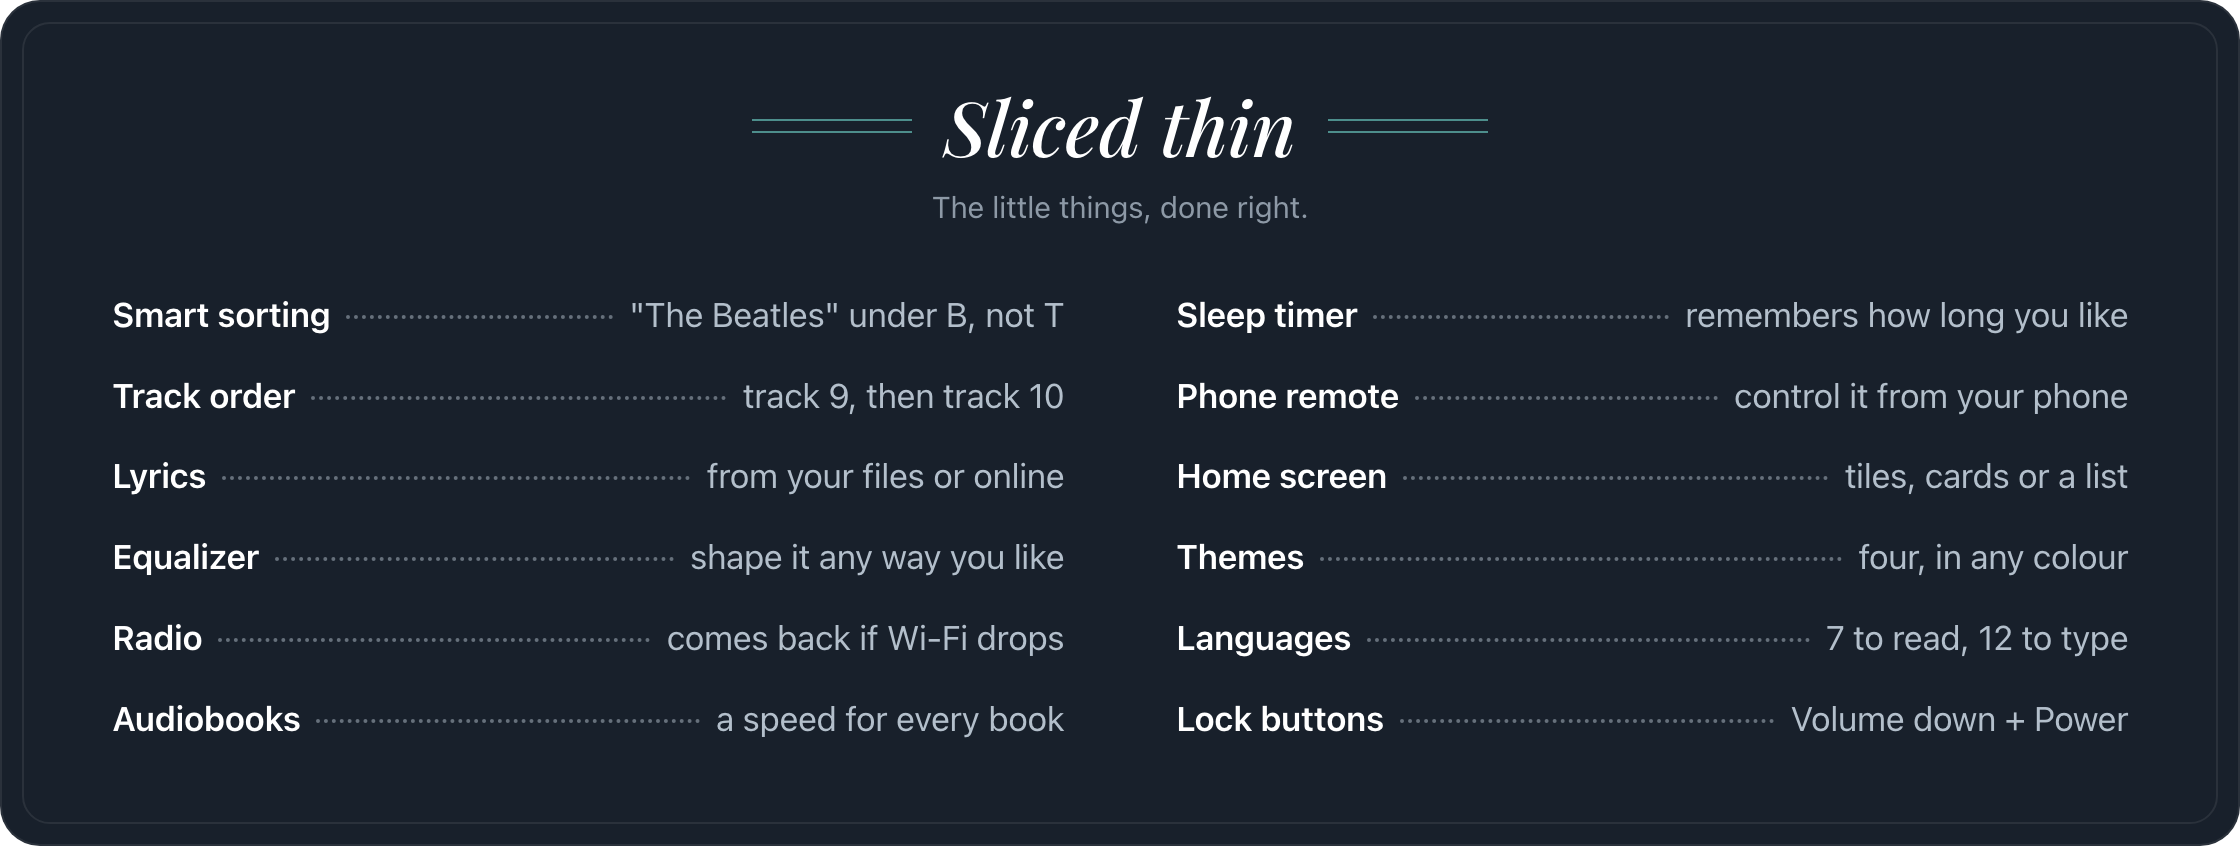
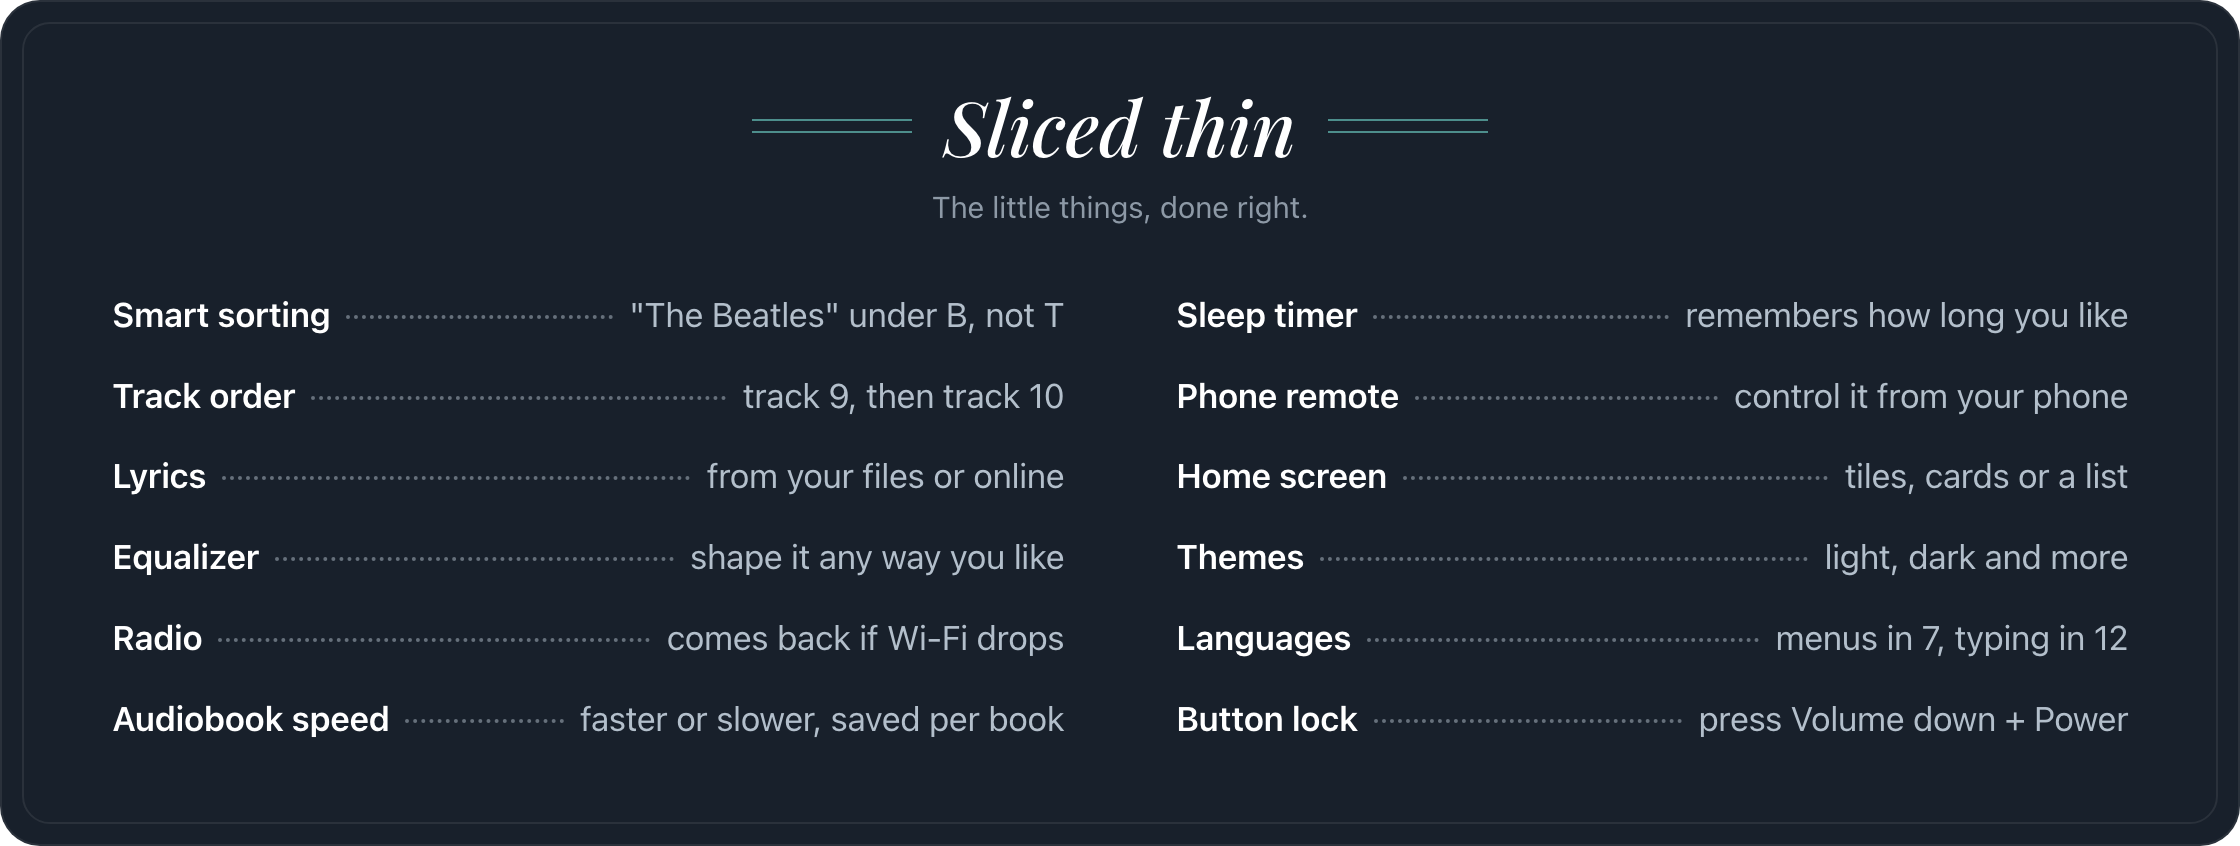
Menu board: audiobook speed and the rest in plain words

diff --git a/README.md b/README.md
@@ -28,7 +28,7 @@ Everything you'd want from a music player, and it's quick.
 
 <picture>
   <source media="(prefers-color-scheme: dark)" srcset="assets/menu-dark.png">
-  <img src="assets/menu-light.png" width="880" alt="Sliced thin: the little things, done right. Smart sorting: "The Beatles" under B, not T. Track order: track 9, then track 10. Lyrics: from your files or online. Equalizer: shape it any way you like. Radio: comes back if Wi-Fi drops. Audiobooks: a speed for every book. Sleep timer: remembers how long you like. Phone remote: control it from your phone. Home screen: tiles, cards or a list. Themes: four, in any colour. Languages: 7 to read, 12 to type. Lock buttons: Volume down + Power.">
+  <img src="assets/menu-light.png" width="880" alt="Sliced thin: the little things, done right. Smart sorting: "The Beatles" under B, not T. Track order: track 9, then track 10. Lyrics: from your files or online. Equalizer: shape it any way you like. Radio: comes back if Wi-Fi drops. Audiobook speed: faster or slower, saved per book. Sleep timer: remembers how long you like. Phone remote: control it from your phone. Home screen: tiles, cards or a list. Themes: light, dark and more. Languages: menus in 7, typing in 12. Button lock: press Volume down + Power."The Beatles" under B, not T. Track order: track 9, then track 10. Lyrics: from your files or online. Equalizer: shape it any way you like. Radio: comes back if Wi-Fi drops. Audiobooks: a speed for every book. Sleep timer: remembers how long you like. Phone remote: control it from your phone. Home screen: tiles, cards or a list. Themes: four, in any colour. Languages: 7 to read, 12 to type. Lock buttons: Volume down + Power.">
 </picture>
 
 Oh, and there are games. 2048, Sudoku, Snake, chess, a tiny pet, a music quiz,
